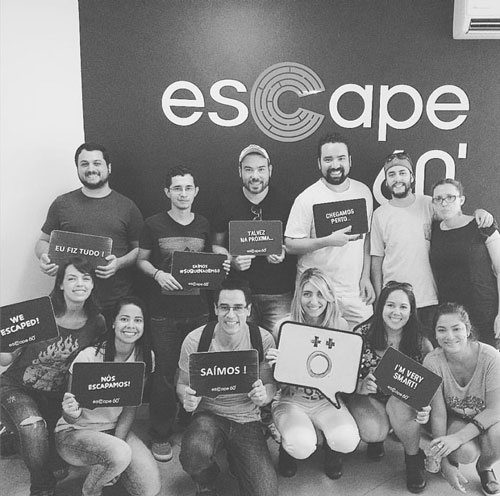
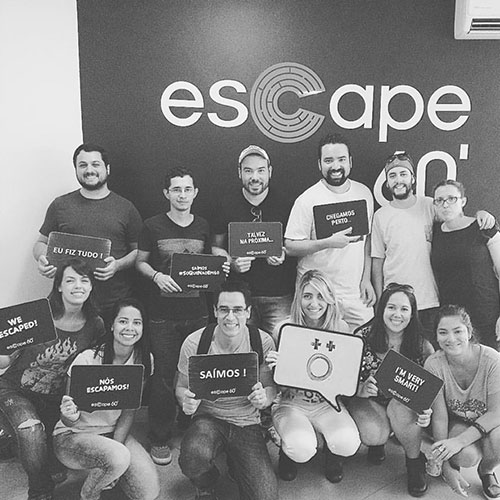
Why me page with color effect hover

diff --git a/src/pages/WhyMe.js b/src/pages/WhyMe.js
@@ -1,22 +1,22 @@
 import React, { useState } from 'react';
 import '../styles/WhyMe.css';
 import { Parallax } from 'react-scroll-parallax';
-import WhyPic01 from '../assets/images/why-pic-pb-01.jpg';
-import WhyPic02 from '../assets/images/why-pic-pb-02.jpg';
-import WhyPic03 from '../assets/images/why-pic-pb-03.jpg';
-import WhyPic04 from '../assets/images/why-pic-pb-04.jpg';
-import WhyPic05 from '../assets/images/why-pic-pb-05.jpg';
-import WhyPic06 from '../assets/images/why-pic-pb-06.jpg';
-import WhyPic07 from '../assets/images/why-pic-pb-07.jpg';
-import WhyPic08 from '../assets/images/why-pic-pb-08.jpg';
-import WhyPic09 from '../assets/images/why-pic-pb-09.jpg';
-import WhyPic10 from '../assets/images/why-pic-pb-10.jpg';
-import WhyPic11 from '../assets/images/why-pic-pb-11.jpg';
-import WhyPic12 from '../assets/images/why-pic-pb-12.jpg';
-import WhyPic13 from '../assets/images/why-pic-pb-13.jpg';
-import WhyPic14 from '../assets/images/why-pic-pb-14.jpg';
-import WhyPic15 from '../assets/images/why-pic-pb-15.jpg';
-import WhyPic16 from '../assets/images/why-pic-pb-16.jpg';
+import WhyPic01 from '../assets/images/why-pic-01.jpg';
+import WhyPic02 from '../assets/images/why-pic-02.jpg';
+import WhyPic03 from '../assets/images/why-pic-03.jpg';
+import WhyPic04 from '../assets/images/why-pic-04.jpg';
+import WhyPic05 from '../assets/images/why-pic-05.jpg';
+import WhyPic06 from '../assets/images/why-pic-06.jpg';
+import WhyPic07 from '../assets/images/why-pic-07.jpg';
+import WhyPic08 from '../assets/images/why-pic-08.jpg';
+import WhyPic09 from '../assets/images/why-pic-09.jpg';
+import WhyPic10 from '../assets/images/why-pic-10.jpg';
+import WhyPic11 from '../assets/images/why-pic-11.jpg';
+import WhyPic12 from '../assets/images/why-pic-12.jpg';
+import WhyPic13 from '../assets/images/why-pic-13.jpg';
+import WhyPic14 from '../assets/images/why-pic-14.jpg';
+import WhyPic15 from '../assets/images/why-pic-15.jpg';
+import WhyPic16 from '../assets/images/why-pic-16.jpg';
 
 const WhyMe = () => {
   const [heartShown, setHeartShown] = useState(false);
@@ -256,10 +256,11 @@ const WhyMe = () => {
             className='pic pics__vertical'
           />
           <img
-            src={WhyPic03}
+            src={WhyPic13}
             alt='gallery element'
             className='pic pics__cube'
           />
+
           <img
             src={WhyPic04}
             alt='gallery element'
@@ -305,11 +306,13 @@ const WhyMe = () => {
             alt='gallery element'
             className='pic pics__cube'
           />
+
           <img
-            src={WhyPic13}
+            src={WhyPic03}
             alt='gallery element'
             className='pic pics__cube'
           />
+
           <img
             src={WhyPic14}
             alt='gallery element'

diff --git a/src/styles/WhyMe.css b/src/styles/WhyMe.css
@@ -417,14 +417,25 @@
       grid-template-columns: repeat(auto-fit, minmax(150px, 1fr));
   grid-auto-rows: 150px;
   grid-auto-flow: dense;
-  margin: 10em 3em;
+  margin: 15em 3em 5em 3em;
 }
 
 .pic {
   width: 100%;
   height: 100%;
+  opacity: 0.5;
+  -webkit-filter: saturate(0%);
+          filter: saturate(0%);
   -o-object-fit: contain;
      object-fit: contain;
+}
+
+.pic:hover {
+  opacity: 1;
+  -webkit-filter: saturate(100%);
+          filter: saturate(100%);
+  -webkit-transition: all 0.5s;
+  transition: all 0.5s;
 }
 
 @-webkit-keyframes pics-why-appear {

diff --git a/src/styles/WhyMe.scss b/src/styles/WhyMe.scss
@@ -360,15 +360,24 @@ margin-top: 5em;
   grid-template-columns: repeat(auto-fit, minmax(150px, 1fr));
   grid-auto-rows: 150px;
   grid-auto-flow: dense;
-  margin: 10em 3em;
+  margin: 15em 3em 5em 3em;
 }
 
 .pic {
   width: 100%;
   height: 100%;
+  opacity: 0.5;
+  filter: saturate(0%);
   object-fit: contain;
   // animation: pics-why-appear 1s ease-in-out forwards;
 }
+
+.pic:hover {
+  opacity: 1;
+  filter: saturate(100%);
+  transition: all 0.5s;
+}
+
 
 @keyframes pics-why-appear {
   0% {
